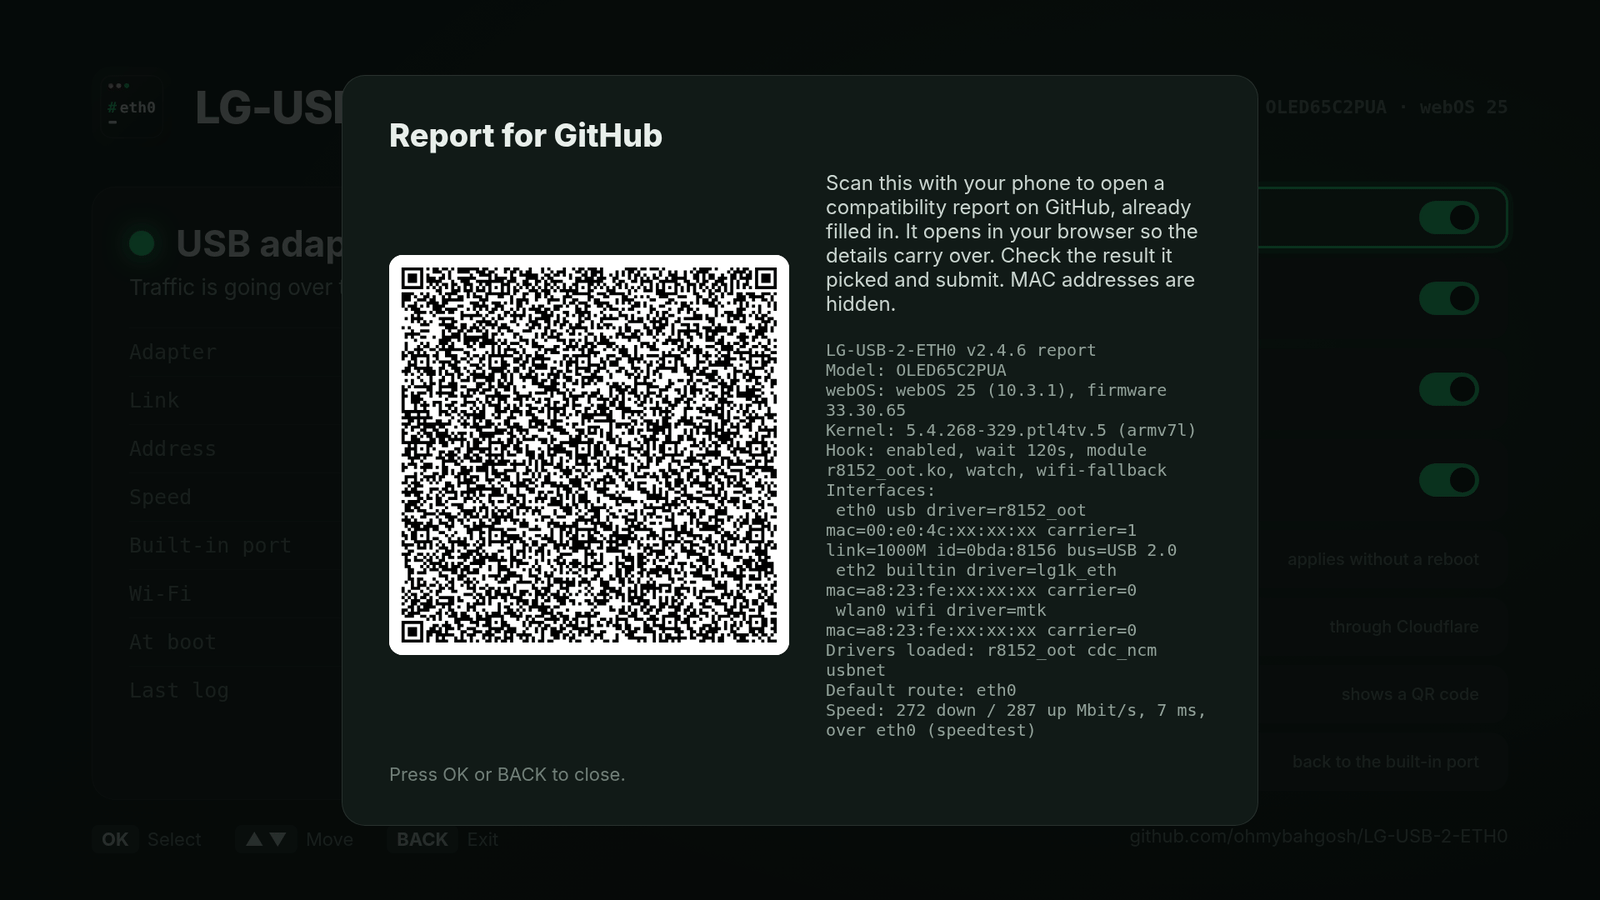
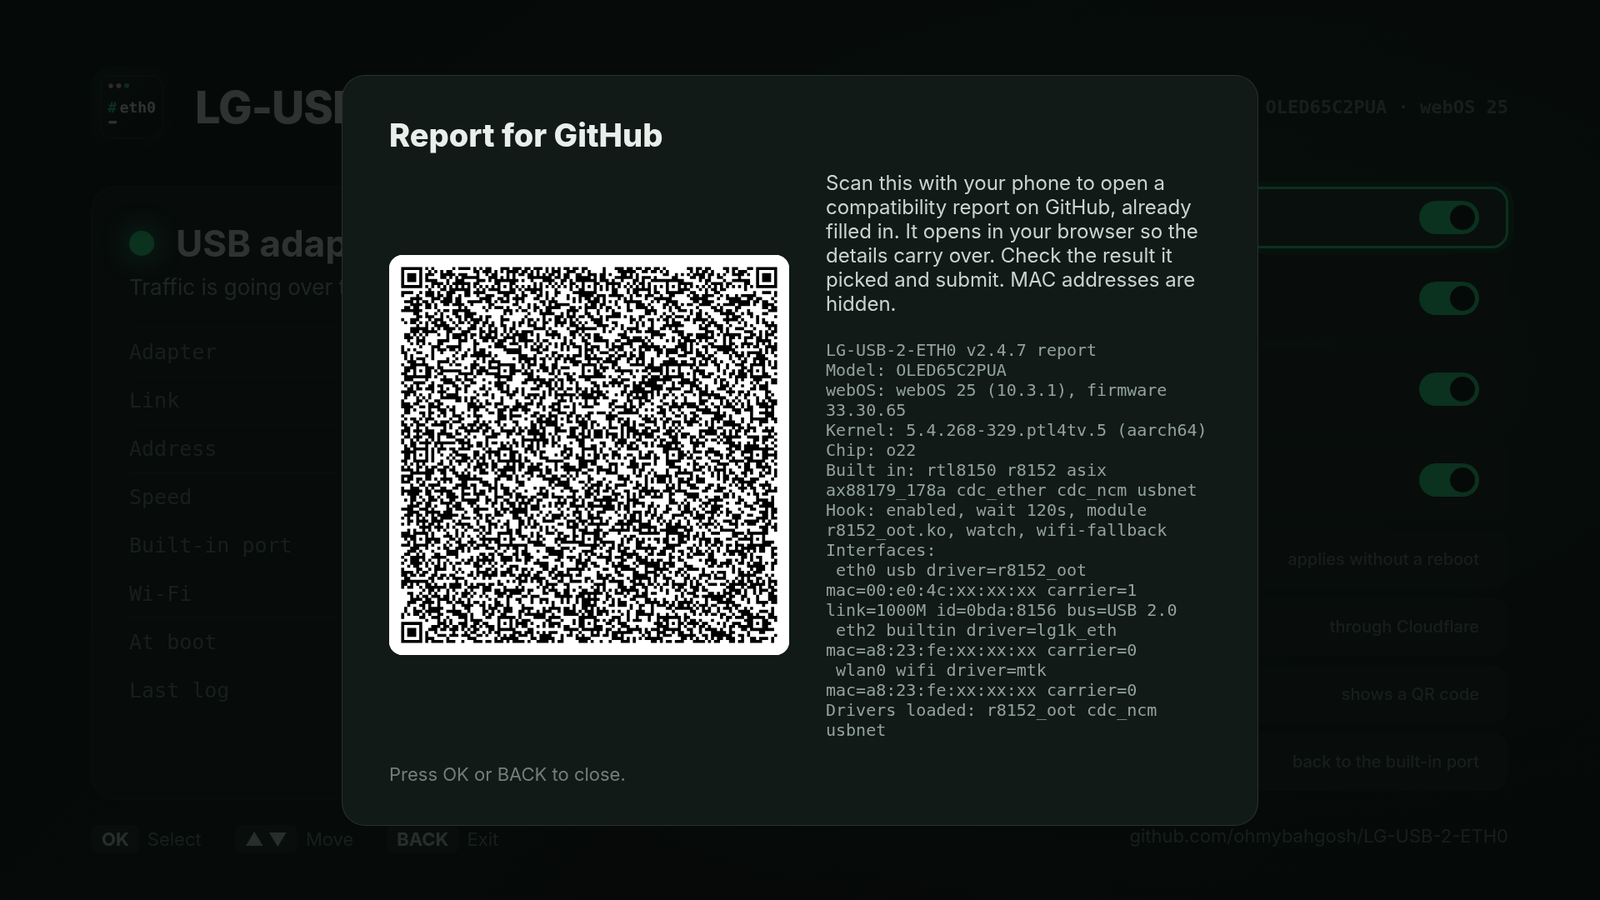
2.4.7: firmware audit, chip and built-in drivers in report, webOS 26 warning
scripts/firmware-audit/audit.sh unpacks an LG firmware file with
epk2extract and lists the USB network drivers its kernel has, from the
kernel's built-in config or the rootfs's modules.builtin, then deletes
everything.  docs/firmware-audit.md has the results for 13 models,
2019 to 2025 and webOS 26.

report adds the chip (nyx-cmd) and the built-in USB network drivers.  The
README warns to keep firmware updates off on rooted TVs, since current
firmware, webOS 26 included, patches the known root methods.

Changed region(s): [[0.25, 0.28, 0.75, 0.84]]

diff --git a/scripts/screenshots/demo.js b/scripts/screenshots/demo.js
@@ -8,7 +8,7 @@
 (function () {
   var p = new URLSearchParams(location.search);
   // The newest release, and the version the screenshots run
-  var LATEST = '2.4.6';
+  var LATEST = '2.4.7';
   var ver = p.get('ver') || LATEST;
   var withSpeed = p.get('speed') !== '0';
   var status = {
@@ -25,7 +25,7 @@
     log: ['=== boot hook (wait 120s, module /home/root/lg-usb-2-eth0/r8152_oot.ko) ===', 'Done: the USB adapter is eth0, the built-in port is eth2.']
   };
   var report = ['```', 'LG-USB-2-ETH0 v' + ver + ' report', 'Model:   OLED65C2PUA', 'webOS:   webOS 25 (10.3.1), firmware 33.30.65',
-    'Kernel:  5.4.268-329.ptl4tv.5 (armv7l)', 'Hook:    enabled, wait 120s, module r8152_oot.ko, watch, wifi-fallback', 'Interfaces:',
+    'Kernel:  5.4.268-329.ptl4tv.5 (aarch64)', 'Chip:    o22', 'Built in: rtl8150 r8152 asix ax88179_178a cdc_ether cdc_ncm usbnet', 'Hook:    enabled, wait 120s, module r8152_oot.ko, watch, wifi-fallback', 'Interfaces:',
     '  eth0 usb driver=r8152_oot mac=00:e0:4c:xx:xx:xx carrier=1 link=1000M id=0bda:8156 bus=USB 2.0',
     '  eth2 builtin driver=lg1k_eth mac=a8:23:fe:xx:xx:xx carrier=0',
     '  wlan0 wifi driver=mtk mac=a8:23:fe:xx:xx:xx carrier=0',

diff --git a/scripts/firmware-audit/kernel-info.py b/scripts/firmware-audit/kernel-info.py
@@ -1,0 +1,112 @@
+#!/usr/bin/env python3
+"""Read a Linux kernel image from LG TV firmware: its version string, and
+which USB network drivers its built-in config (CONFIG_IKCONFIG) has.
+
+Usage: kernel-info.py KERNEL_IMAGE
+Prints kernel=, config=yes|, builtin= and modules= lines.
+"""
+import gzip
+import zlib
+import re
+import sys
+
+# Config symbol -> driver (module) name, for the USB network drivers that
+# matter for USB Ethernet adapters
+DRIVERS = [
+    ('USB_RTL8152', 'r8152'),
+    ('USB_RTL8153_ECM', 'r8153_ecm'),
+    ('USB_NET_AX8817X', 'asix'),
+    ('USB_NET_AX88179_178A', 'ax88179_178a'),
+    ('USB_NET_CDCETHER', 'cdc_ether'),
+    ('USB_NET_CDC_NCM', 'cdc_ncm'),
+    ('USB_NET_CDC_EEM', 'cdc_eem'),
+    ('USB_NET_SMSC95XX', 'smsc95xx'),
+    ('USB_NET_SMSC75XX', 'smsc75xx'),
+    ('USB_LAN78XX', 'lan78xx'),
+    ('USB_NET_AQC111', 'aqc111'),
+    ('USB_NET_DM9601', 'dm9601'),
+    ('USB_RTL8150', 'rtl8150'),
+    ('USB_USBNET', 'usbnet'),
+]
+
+
+def lz4_block(src):
+    """Decompress one LZ4 block (the format inside legacy LZ4 frames)."""
+    out = bytearray()
+    i, n = 0, len(src)
+    while i < n:
+        token = src[i]
+        i += 1
+        lit = token >> 4
+        if lit == 15:
+            while True:
+                b = src[i]
+                i += 1
+                lit += b
+                if b != 255:
+                    break
+        out += src[i:i + lit]
+        i += lit
+        if i >= n:
+            break
+        off = src[i] | (src[i + 1] << 8)
+        i += 2
+        ml = token & 15
+        if ml == 15:
+            while True:
+                b = src[i]
+                i += 1
+                ml += b
+                if b != 255:
+                    break
+        ml += 4
+        start = len(out) - off
+        for k in range(ml):
+            out.append(out[start + k])
+    return bytes(out)
+
+
+def unlz4_legacy(data):
+    """Legacy LZ4 frame (magic 0x184C2102), as some LG kernel.pak files use."""
+    out = bytearray()
+    i = 4
+    while i + 4 <= len(data):
+        size = int.from_bytes(data[i:i + 4], 'little')
+        if size == 0x184C2102:
+            i += 4
+            continue
+        i += 4
+        if size == 0 or i + size > len(data):
+            break
+        out += lz4_block(data[i:i + size])
+        i += size
+    return bytes(out)
+
+
+def main(path):
+    data = open(path, 'rb').read()
+    if data[:4] == bytes.fromhex('02214c18'):
+        data = unlz4_legacy(data)
+    elif data[:2] == b'\x1f\x8b':
+        # Only the first gzip member: the image can have padding after it
+        data = zlib.decompressobj(31).decompress(data)
+    m = re.search(rb'Linux version (\S+) \(', data)
+    print('kernel=' + (m.group(1).decode() if m else ''))
+    start = data.find(b'IKCFG_ST')
+    end = data.find(b'IKCFG_ED', start + 8)
+    if start < 0 or end < 0:
+        print('config=')
+        return
+    try:
+        config = gzip.decompress(data[start + 8:end]).decode('utf-8', 'replace')
+    except OSError:
+        print('config=')
+        return
+    values = dict(re.findall(r'^CONFIG_(\w+)=(\S+)', config, re.M))
+    print('config=yes')
+    print('builtin=' + ' '.join(n for s, n in DRIVERS if values.get(s) == 'y'))
+    print('modules=' + ' '.join(n for s, n in DRIVERS if values.get(s) == 'm'))
+
+
+if __name__ == '__main__':
+    main(sys.argv[1])

diff --git a/README.md b/README.md
@@ -24,6 +24,16 @@ This script renames the adapter to `eth0` and parks the built-in port under anot
 > It adds one boot hook, a link at `/var/lib/webosbrew/init.d/S01fix-eth`, keeps its settings in `/var/lib/webosbrew/lg-usb-2-eth0.conf`, and only renames network interfaces.  No system files are touched, and network settings only if you turn on the Wi-Fi backup, so a reboot without the hook always starts clean.  With no adapter plugged in, the hook changes nothing.
 > Undo everything with **Turn everything off** in the TV app, or `sh LG-USB-2-ETH0.sh uninstall --now`.
 
+> [!WARNING]
+> **Keep firmware updates off on a rooted TV.**  LG's current firmware patches the known ways to root a TV, and that includes webOS 26, which LG has started rolling out to 2022 to 2025 models (version 43.21.94 for the C2, 43.21.96 for the C3, C4 and C5, as of early November 2026).  An update may remove root, and once a TV is on patched firmware it can't be rooted again, so this script and its app would stop working.
+>
+> - Turn off **Automatic software updates** in the TV's settings (on recent models it's under Support, Software Update).
+> - In the Homebrew Channel, open Settings and turn on **Block system updates**.
+> - Some TVs still show the update prompt anyway.  Blocking LG's update servers on your router or Pi-hole stops it: see the list in [Homebrew Channel issue #96](https://github.com/webosbrew/webos-homebrew-channel/issues/96#issuecomment-2119483327).
+> - Not sure about your firmware?  Check it at [CanI.RootMy.TV](https://cani.rootmy.tv/).
+>
+> People keep looking for new ways in.  RootMyTV, crashd, WTA, DejaVuln and faultmanager each came along after the one before it was patched, so a root method for newer firmware may well turn up, but there's no telling when.  The [webOS Homebrew rooting page](https://www.webosbrew.org/rooting/) is the place to watch.
+
 > [!NOTE]
 > **How this is built.**  I, [OhMyBahGosh](https://github.com/ohmybahgosh), wrote v1 by hand.  From v2.0 on, it's written with AI coding agents (Claude), directed, reviewed and tested by me.  I've been building software for over 17 years.  My day job is data engineering, and network security and pentesting are what I do for fun.  AI writes a lot of the code here; I decide what it does, check how it does it, and nothing ships until it's run on a real TV (an LG C2 on webOS 25).
 >
@@ -195,7 +205,7 @@ This sample comes from the test suite, with example TV details filled in.  Your 
 | `revert` | Gives `eth0` back to the built-in port now.  (`reset` works too.) |
 | `disable` / `enable` | Keeps the hook but stops it running at boot, or turns it back on. |
 | `status` / `doctor` | Read-only report and checks.  Safe to run any time. |
-| `report` | Short, paste-ready report for a GitHub issue.  MAC addresses are masked. |
+| `report` | Short, paste-ready report for a GitHub issue: TV, chip, kernel, the USB network drivers built into it, interfaces and settings.  MAC addresses are masked. |
 | `get-driver` | Downloads a better driver module, if one is known to work on your exact kernel, and checks its checksum.  With `--file PATH`, checks and uses a copy you downloaded yourself.  See [A faster driver](#a-faster-driver). |
 | `speedtest` | Latency, download and upload through the TV's current connection, against Cloudflare's nearest server.  Four streams for about six seconds each way, so it uses a few hundred MB.  The last result shows up in `report` and the app. |
 | `update` | Checks for a newer release and installs it, after checking its SHA-256.  `--check` only checks.  Inside the app, it updates the whole app.  On its own, the script replaces itself (and the boot hook's copy).  Your settings stay. |
@@ -296,7 +306,7 @@ sh LG-USB-2-ETH0.sh get-driver
 sh LG-USB-2-ETH0.sh install --module /home/root/lg-usb-2-eth0/drivers/ax88179_178a.ko
 ```
 
-**2025 TVs on webOS 25 (B5) with an ASIX adapter:** [dd3git](https://github.com/dd3git/lg-webos-ax88179-driver) built the ASIX driver from LG's own kernel source for kernel `5.4.268-294.24.papikonda.2`, tested on an OLED55B56LA with a UGREEN AX88179 adapter.  Its source is published too.  It's the same `ax88179_178a.ko` file name, so the same two commands set it up.
+**2024 and 2025 TVs with LG's K24 chips (B4, QNED85, B5) and an ASIX adapter:** [dd3git](https://github.com/dd3git/lg-webos-ax88179-driver) built the ASIX driver from LG's own kernel source for kernel `5.4.268-294.24.papikonda.2`, tested on a 2025 OLED55B56LA (B5) with a UGREEN AX88179 adapter.  The [firmware audit](docs/firmware-audit.md) shows the 2024 B4 and QNED85 run the same kernel on current firmware, with no ASIX AX88179 driver either.  Its source is published too.  It's the same `ax88179_178a.ko` file name, so the same two commands set it up.
 
 **TVs with the Realtek K5Lp chip, kernel 4.4.84:** [throwaway96](https://github.com/throwaway96/webos-kernel-drivers), who builds kernel modules for many webOS chips, built the kernel's own `r8152` (gigabit RTL8152 and RTL8153) and `ax88179_178a` for it.  These are built per chip, so `get-driver` also checks the chip name (`nyx-cmd DeviceInfo query device_name`) and offers the one for your adapter.  Not yet tested with LG-USB-2-ETH0, so a report helps.
 
@@ -325,9 +335,11 @@ The script only needs root, the Homebrew Channel, `ip` and `/sys`, which every r
 | webOS 24 | Where this script was first written. | |
 | webOS 25 on a 2024 C4 (same kernel as the C2 below) | RTL8153 and RTL8156 adapters come up through the generic `cdc_ncm` driver.  They work, but slower and with drops.  DonZoomik's `r8152_oot`, which `get-driver` offers, fixes that. | [DonZoomik/webos-r8152](https://github.com/DonZoomik/webos-r8152) |
 | webOS 25 (10.3.1, firmware 33.31.68) on a 2022 C2 (OLED65C2PUA), kernel `5.4.268-329.ptl4tv.5` | Tested by the author.  An RTL8156 adapter (`0bda:8156`) comes up on `cdc_ncm`, and LG-USB-2-ETH0 makes it `eth0`.  With `r8152_oot` from `get-driver` and `install --module`, it's confirmed through a full reboot: at startup the hook loads the driver, moves the adapter over on the first try, turns scatter-gather off and makes it `eth0`, with traffic going out the adapter.  The C2's USB port runs at USB 2.0 speed. | This repo |
-| webOS 25 on 2024 QNED and OLED (Paparoa), kernel `5.4.268-294.17.paparoa.pine.2` | The Realtek driver was removed.  A gigabit RTL8153 adapter works with mbenitez343's `r8152` build (stable on a QNED86, per its author), which `get-driver` now offers.  Not yet tested with LG-USB-2-ETH0 on one of these TVs, so a report helps. | [mbenitez343/lg-webos-2024-ethernet-fix](https://github.com/mbenitez343/lg-webos-2024-ethernet-fix) |
+| webOS 25 on 2024 QNED and OLED (Paparoa), kernel `5.4.268-294.17.paparoa.pine.2` | The Realtek driver was removed.  Current firmware (33.31.75) moves these TVs to kernel `5.4.268-294.24.papikonda.2`, still with no Realtek or AX88179 driver, so this build isn't offered there: see the [firmware audit](docs/firmware-audit.md).  A gigabit RTL8153 adapter works with mbenitez343's `r8152` build (stable on a QNED86, per its author), which `get-driver` now offers.  Not yet tested with LG-USB-2-ETH0 on one of these TVs, so a report helps. | [mbenitez343/lg-webos-2024-ethernet-fix](https://github.com/mbenitez343/lg-webos-2024-ethernet-fix) |
 | webOS 25 (10.3.1, firmware 33.31.68) on a 2024 G4 (OLED65G48LW), kernel `5.4.268-329.ptl4tv.5` | An ASIX AX88179 adapter (`0b95:1790`) works out of the box on the TV's own `ax88179_178a` driver, and LG-USB-2-ETH0 makes it `eth0`.  Settings show the wired connection and apps play.  292 Mbit/s down over USB 2.0. | [#2](https://github.com/ohmybahgosh/LG-USB-2-ETH0/issues/2) |
 | webOS 25 on a 2025 B5 (OLED55B56LA), kernel `5.4.268-294.24.papikonda.2` | No ASIX driver: an AX88179A wasn't detected at all.  dd3git's `ax88179_178a` build fixes that, and `get-driver` offers it.  Not yet tested with LG-USB-2-ETH0, so a report helps. | [LG developer forum](https://forum.webostv.developer.lge.com/t/feature-request-usb-gigabit-ethernet-adapter-support-on-webos-25/28185), [dd3git/lg-webos-ax88179-driver](https://github.com/dd3git/lg-webos-ax88179-driver) |
+
+**Which drivers does your TV's kernel have?**  The [firmware audit](docs/firmware-audit.md) reads them straight from LG's firmware for 13 models from 2019 to 2025, webOS 26 included.
 
 **Tested on your TV?**  Please [send a compatibility report](https://github.com/ohmybahgosh/LG-USB-2-ETH0/issues/new?template=compatibility-report.yml), whether it worked or not.  Reports from real TVs are what this table needs most.
 
@@ -375,7 +387,7 @@ That's still two to three times the built-in port, which is plenty for 4K remuxe
 
 ## FAQ
 
-**Does it survive a firmware update?**  The hook lives in the Homebrew Channel's folder, so it stays as long as root does.  If an update removes root, the hook stops running and the TV just goes back to using the built-in port.
+**Does it survive a firmware update?**  The hook lives in the Homebrew Channel's folder, so it stays as long as root does.  If an update removes root, the hook stops running and the TV just goes back to using the built-in port.  Current firmware, webOS 26 included, can't be rooted again, so keep updates off: see the warning at the top.
 
 **Does it change my network settings?**  No.  webOS still sets up the wired connection itself.  The script only changes which device is called `eth0`.  The one exception is `--wifi-fallback`, if you turn it on: it flips the Wi-Fi switch on when the cable stops working, and back off when it works again.
 
@@ -426,7 +438,7 @@ It covers swapping and reverting, Wi-Fi and tethering being left alone, MAC pinn
 
 The TV app is in `webos-app/`.  `webos-app/build.sh` builds the IPK and its Homebrew Channel manifest (it needs `ares-package` from `@webos-tools/cli`).  CI builds it on every push, and checks the issue forms too.
 
-The app screenshots come from the built app running in a desktop browser with made-up data.  After changing the app, `sh webos-app/build.sh && node scripts/screenshots/take.js` takes them again (it needs Playwright and ffmpeg).  The recording at the top of the TV app section is from a real TV: open the app on the TV, forward its web inspector over SSH (`ssh -N -L 19998:127.0.0.1:9998 root@TV`), and run `node scripts/screenshots/record-tv.js`.  It only opens the Wi-Fi backup and report boxes, closes them with BACK, and changes nothing.  The banner at the top is `scripts/banner/banner.html`, made from the app icon and the status screenshot: `node scripts/banner/make.js` renders it to `assets/banner.webp`.
+The app screenshots come from the built app running in a desktop browser with made-up data.  After changing the app, `sh webos-app/build.sh && node scripts/screenshots/take.js` takes them again (it needs Playwright and ffmpeg).  The recording at the top of the TV app section is from a real TV: open the app on the TV, forward its web inspector over SSH (`ssh -N -L 19998:127.0.0.1:9998 root@TV`), and run `node scripts/screenshots/record-tv.js`.  It only opens the Wi-Fi backup and report boxes, closes them with BACK, and changes nothing.  `scripts/firmware-audit/audit.sh` unpacks an LG firmware file and lists the USB network drivers its kernel has, for the [firmware audit](docs/firmware-audit.md).  The banner at the top is `scripts/banner/banner.html`, made from the app icon and the status screenshot: `node scripts/banner/make.js` renders it to `assets/banner.webp`.
 
 Releases are made by pushing a `v*` tag.  The release workflow runs the tests, checks the tag against `VERSION` in the script, builds the app, and publishes the script, `SHA256SUMS`, the IPK, its manifest and the AI knowledge base (`lg-usb-2-eth0-for-ai.md`).  Then it tells ohmybahgosh.dev to refresh its Homebrew Channel repository.
 

diff --git a/docs/firmware-audit.md b/docs/firmware-audit.md
@@ -1,0 +1,56 @@
+# Firmware audit: USB Ethernet drivers in LG's firmware
+
+Which USB Ethernet drivers each LG TV's kernel has, read straight from LG's own firmware files rather than from user reports.  It tells us which TVs work out of the box, which need a driver `get-driver` already offers, and which still need one built.
+
+Last run: November 5, 2026, on the latest US firmware for each model.  The raw data is in [`scripts/firmware-audit/results.tsv`](../scripts/firmware-audit/results.tsv).
+
+## Results
+
+"Kernel" is what `uname -r` prints on that TV, which is what `get-driver` matches on.  "Built in" is the USB network drivers compiled into the kernel.  None of these firmwares ship any of them as loadable modules.
+
+| Model | Year | Firmware | webOS | Chip | Kernel | Built in |
+|-------|------|----------|-------|------|--------|----------|
+| OLED65C9PUA | 2019 | 05.50.00 | 4.5 | o18 | `4.4.84-169.gld4tv.5` | r8152, asix, ax88179_178a, cdc_ether, cdc_ncm |
+| OLED65CXPUA | 2020 | 04.64.00 | 5 | o20 | `4.4.84-219.jcl4tvmr.6` | r8152, asix, ax88179_178a, cdc_ether, cdc_ncm |
+| 55UN7300PUF | 2020 | 04.64.00 | 5 | k6lp | `4.4.84-612.40.jimna.1` | asix only |
+| OLED65C1PUB | 2021 | 03.53.45 | 6 | o20n | `4.4.84-229.kcl4tv.6` | r8152, asix, ax88179_178a, cdc_ether, cdc_ncm |
+| 65NANO75UQA | 2022 | 04.60.92 | 22 | k8lp | `5.4.96-115.30.mole.2` | asix only |
+| OLED65C2PUA | 2022 | 33.31.68 | 25 | o22 | `5.4.268-329.ptl4tv.5` | r8152, asix, ax88179_178a, cdc_ether, cdc_ncm |
+| OLED65C3PUA | 2023 | 33.31.68 | 25 | o22n | `5.4.268-329.ptl4tv.5` | r8152, asix, ax88179_178a, cdc_ether, cdc_ncm |
+| 65UR9000PUA | 2023 | 33.31.75 | 25 | m23 | `5.4.268-329.ptl4tv.5` | r8152, asix, ax88179_178a, cdc_ether, cdc_ncm |
+| OLED65C4PUA | 2024 | 33.31.69 | 25 | o22n2 | `5.4.268-329.ptl4tv.5` | r8152, asix, ax88179_178a, cdc_ether, cdc_ncm |
+| OLED65B4PUA (and 65QNED85TUA, same file) | 2024 | 33.31.75 | 25 | k24 | `5.4.268-294.24.papikonda.2` | asix only |
+| OLED65B5PUA | 2025 | 33.31.75 | 25 | k24n | `5.4.268-294.24.papikonda.2` | r8152, asix |
+| OLED65C2PUA | 2022 | 43.21.94 | 26 | o22 | `6.12.44-352` | r8152, r8153_ecm, asix, ax88179_178a, cdc_ether, cdc_ncm |
+| OLED65C4PUA | 2024 | 43.21.96 | 26 | o22n2 | `6.12.44-352` | r8152, asix, ax88179_178a, cdc_ether, cdc_ncm |
+
+## What it tells us
+
+- **One kernel covers most LG chips on webOS 25.**  The C2, C3, C4 and the UR9000 LCD all run `5.4.268-329.ptl4tv.5`, so DonZoomik's `r8152_oot` fits all of them.  Their built-in `r8152` is too old for newer Realtek chips, which is why those adapters end up on `cdc_ncm`.
+- **2024 and 2025 Realtek-chip TVs (K24, K24N) need help.**  On current firmware the B4 and QNED85 have no Realtek driver and no ASIX AX88179 driver at all, and the B5 has only an old built-in `r8152`.  None of them has `cdc_ncm`, so a 2.5G RTL8156 adapter gets no driver on any of them.
+  - dd3git's `ax88179_178a` is built for exactly this kernel, so `get-driver` already offers it on the B4 and QNED85 as well as the B5.
+  - mbenitez343's `r8152` is for `5.4.268-294.17.paparoa.pine.2`, an older kernel for these TVs.  On current firmware they report `294.24.papikonda.2` instead, so it's no longer offered there.  **An `r8152` for `5.4.268-294.24.papikonda.2` is the most useful driver still missing.**
+- **Older Realtek-chip LCD TVs have only the ASIX AX8817x driver.**  The 2020 UN7300 (K6LP) and 2022 NANO75 (K8LP) have no `r8152`, no `ax88179_178a` and no `cdc_ncm`.  An adapter needs a module built for them.
+  - The UN7300's current firmware reports `4.4.84-612.40.jimna.1`, not the `4.4.84-612.jcl4tv.40` that OCT0PUSCRIME's driver was built for.  That kernel name may come from older firmware, so his module may not load after an update.  A report from a UN7300 on 04.64.00 would settle it.
+- **LG's own OLED chips (O18 to O22N2) have everything built in** on webOS 4.5 to 25.  Adapters work out of the box there.  Only the driver version decides how fast.
+- **webOS 26 moves to kernel 6.12** (`6.12.44-352`), whose built-in `r8152` handles RTL8153 and RTL8156 properly.  Root is patched there though, so it doesn't help rooted TVs: see the warning in the README.
+
+## How it works
+
+[`scripts/firmware-audit/audit.sh`](../scripts/firmware-audit/audit.sh) takes one firmware `.zip` (or `.epk`) from LG's support site:
+
+1. Unpacks it with [epk2extract](https://github.com/openlgtv/epk2extract) from openlgtv, which has the decryption keys for most LG chips.
+2. If the firmware has a kernel image, `kernel-info.py` reads its version string and the config built into it, which says driver by driver whether it's built in, a module, or missing.
+3. Some updates only carry the root filesystem.  Then it reads `lib/modules/<kernel>/modules.builtin` from there instead (`usr/lib/modules` on webOS 26).
+4. It prints one line for `results.tsv`, and deletes the firmware and everything it unpacked.
+
+```sh
+git clone https://github.com/openlgtv/epk2extract && (cd epk2extract && ./build.sh)
+EPK2EXTRACT=$PWD/epk2extract/build_linux/epk2extract scripts/firmware-audit/audit.sh firmware.zip OLED65C2PUA
+```
+
+It needs `unsquashfs` (squashfs-tools) and python3.  A firmware file is 1 to 2 GB, so it only keeps one at a time.
+
+The download links are on each model's LG support page (Manuals & Software, Download Software).
+
+Want a model added?  Open an issue with its model number.

diff --git a/CHANGELOG.md b/CHANGELOG.md
@@ -2,6 +2,17 @@
 
 All notable changes to LG-USB-2-ETH0.  Versions follow [semantic versioning](https://semver.org/).
 
+## [2.4.7] - 2026-11-05
+
+### Added
+
+- **A firmware audit.**  `scripts/firmware-audit/audit.sh` unpacks an LG firmware file and lists the USB network drivers its kernel has.  [docs/firmware-audit.md](docs/firmware-audit.md) has the results for 13 models from 2019 to 2025, webOS 26 included.  Among other things, it shows the C2, C3, C4 and UR9000 share one kernel, and that the 2024 B4 and QNED85 share the 2025 B5's, so dd3git's ASIX driver fits them too.
+- **`report` names the chip and the built-in USB network drivers**, from `/lib/modules/<kernel>/modules.builtin`.  Compatibility reports now show which drivers a TV has without anyone needing to look.
+
+### Changed
+
+- **A warning in the README to keep firmware updates off on rooted TVs.**  LG's current firmware, webOS 26 included (43.21.94 for the C2, 43.21.96 for the C3, C4 and C5), patches the known root methods.  It explains how to turn updates off and block them, and where to watch for new root methods.
+
 ## [2.4.6] - 2026-11-04
 
 ### Added
